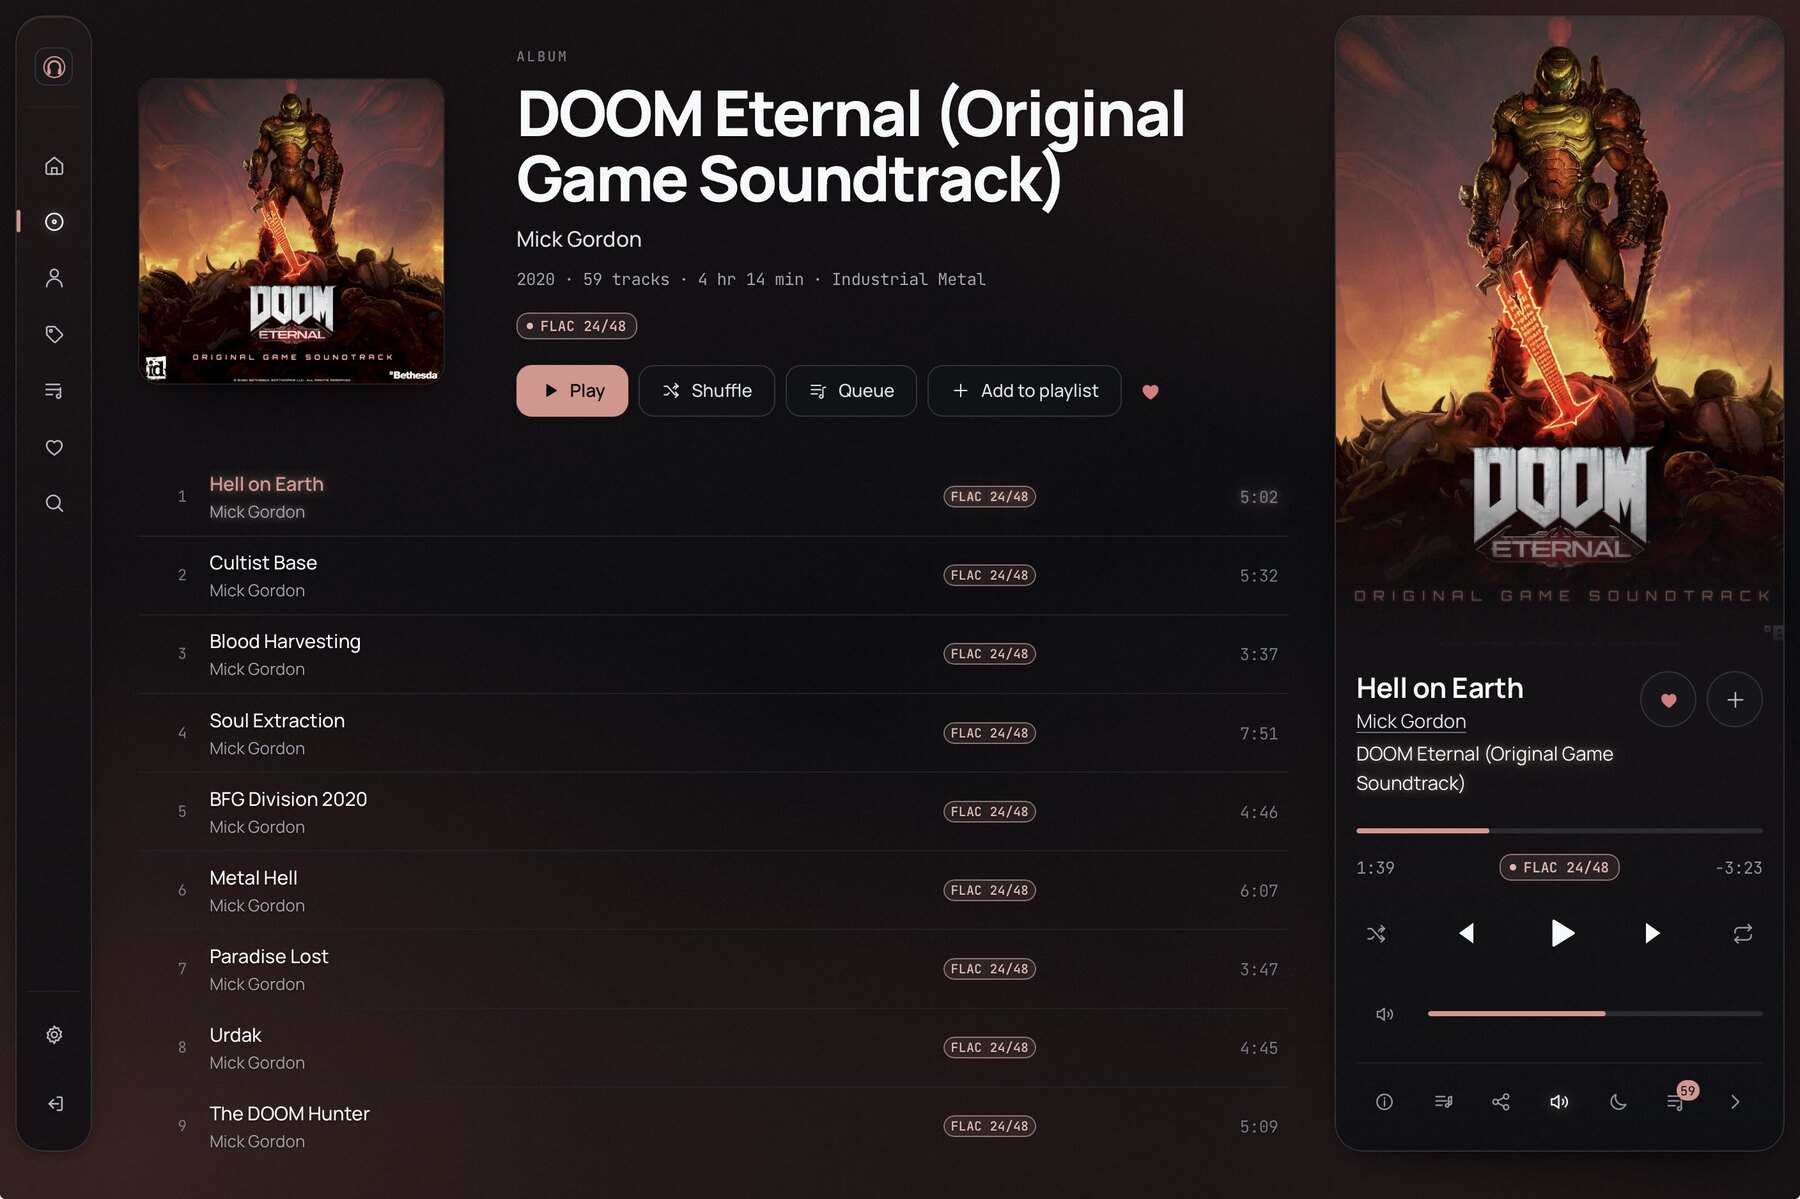
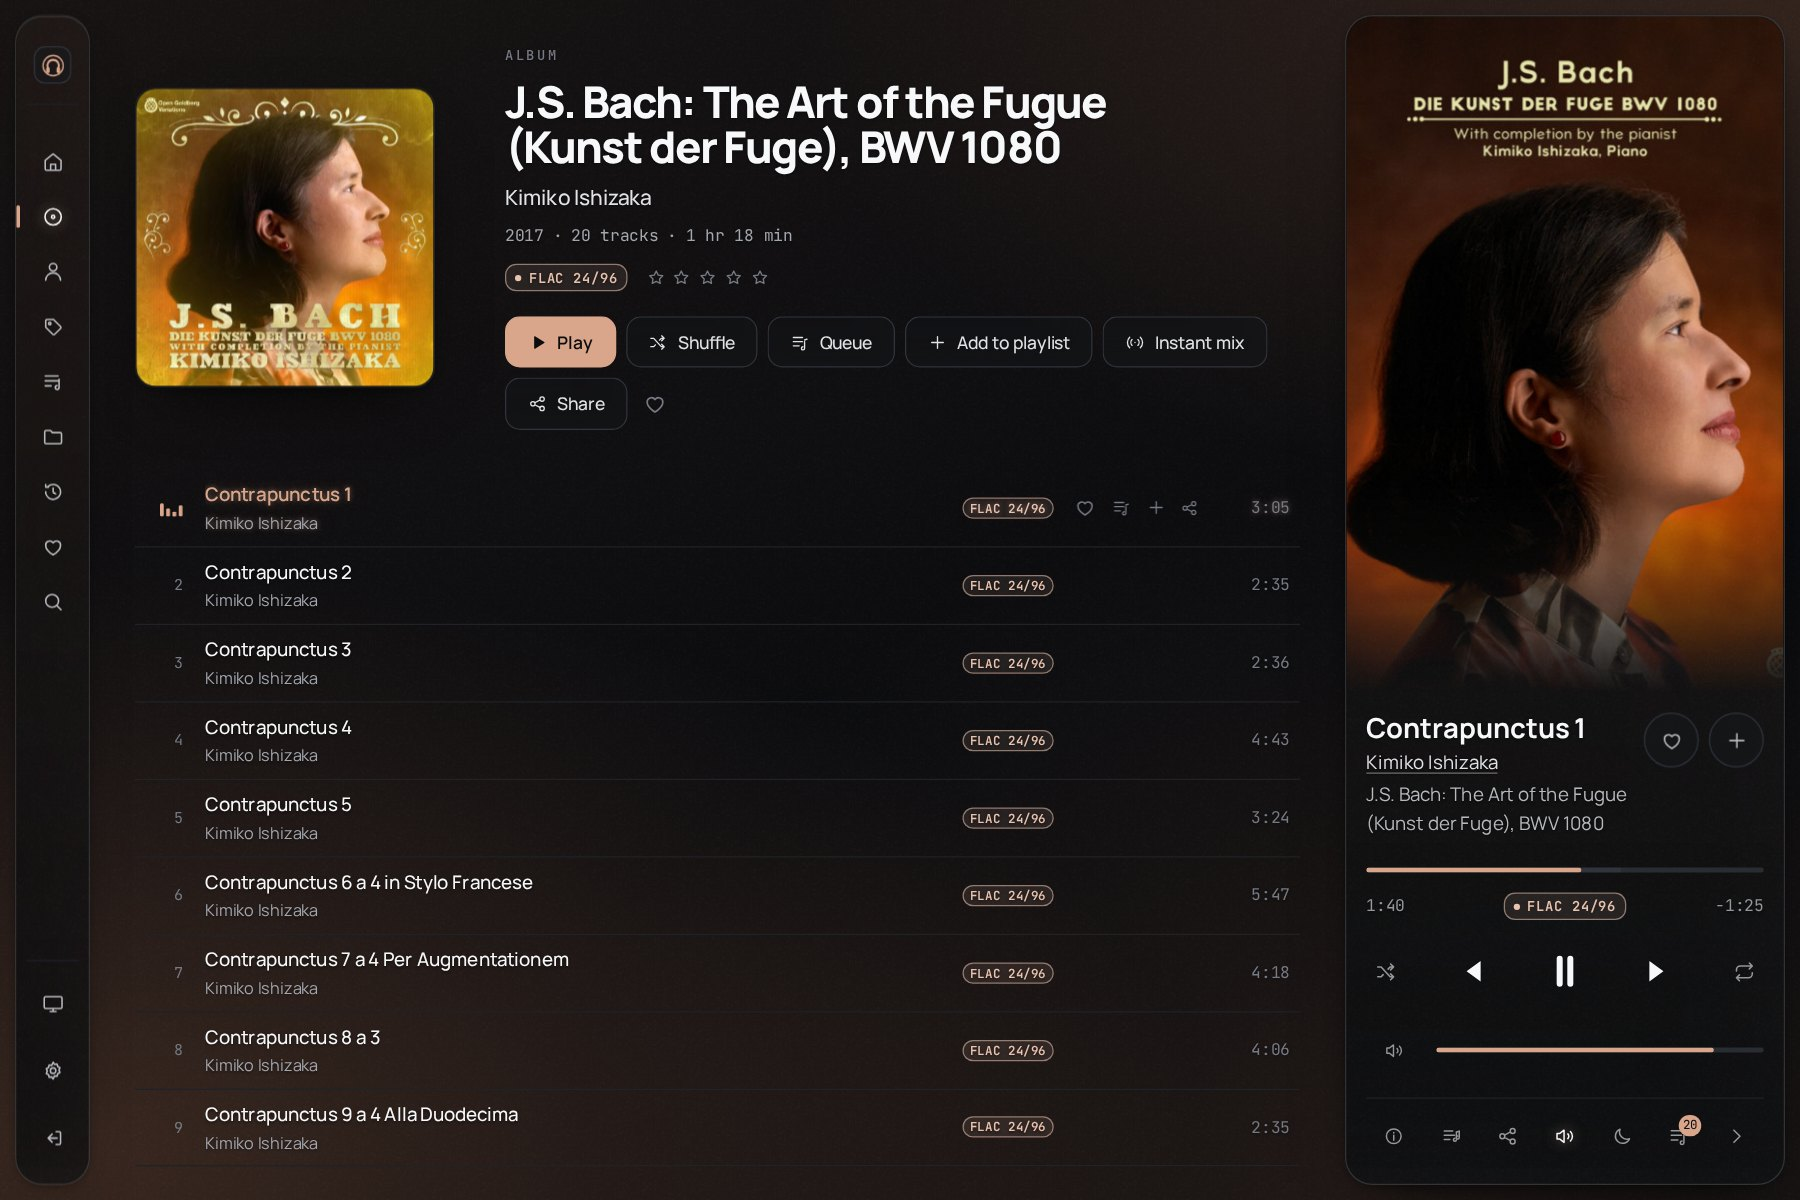
feat: screenshots of freely licensed albums, renewed by one script
screenshots/run.sh downloads a library of Josh Woodward (CC BY 4.0) and
Kimiko Ishizaka's Art of the Fugue (CC0, 24-bit FLAC) into a Docker
volume, starts a Navidrome and a Heddohon of their own, and captures
four desktop pages at 1440x960 and two phone pages at 393x852 with
Playwright. It needs Docker only and takes about a minute once the
library is cached. The social preview is rendered from the new album
and recommendations shots.

diff --git a/README.md b/README.md
@@ -21,8 +21,38 @@ Liquid and Paper, stored in `localStorage`.
 | `style.css` | Tokens from the app's `app.css`, and the page's layout |
 | `site.js` | Artwork tint, theme switch, sleeve tilt, copy button |
 | `assets/fonts/` | Manrope and JetBrains Mono (latin subset, variable), SIL OFL 1.1 |
-| `assets/shots/` | Screenshots from the Heddohon repository's `docs/assets` |
+| `assets/shots/` | Screenshots, made by `screenshots/run.sh` |
+| `screenshots/` | The scripts that make them |
 | `CNAME` | The custom domain for GitHub Pages |
+
+## Screenshots
+
+`screenshots/run.sh` makes every image in `assets/shots/`. It needs Docker
+and nothing else:
+
+```sh
+screenshots/run.sh                                           # the latest release
+HEDDOHON_IMAGE=ghcr.io/zorcerer/heddohon:dev screenshots/run.sh
+```
+
+It downloads a library into the Docker volume `hh-shots-library` (3.8 GB, kept
+for the next run), starts a Navidrome and a Heddohon on a network of their own,
+scans the library, and captures four desktop pages at 1440x960 and two phone
+pages at 393x852 with Playwright. The servers, their data and the network are
+removed at the end. Each shot names its album and track in `capture.mjs`;
+change them there. On a failure, `assets/shots/failed.png` shows the page as
+it was.
+
+The library is freely licensed music:
+
+- Josh Woodward, every song on [joshwoodward.com](https://www.joshwoodward.com/),
+  [CC BY 4.0](https://creativecommons.org/licenses/by/4.0/). Songs and covers
+  shown are credited on the page, as the license asks.
+- Kimiko Ishizaka, J.S. Bach: The Art of the Fugue, 24-bit FLAC from the
+  [Internet Archive](https://archive.org/details/pandacd-715-js-bach-the-art-of-the-fugue-kunst-der-fuge-bwv-1080),
+  [CC0](https://creativecommons.org/publicdomain/zero/1.0/).
+
+Lyrics come from LRCLIB through Heddohon's `HEDDOHON_LYRICS_LRCLIB`.
 
 ## License
 
